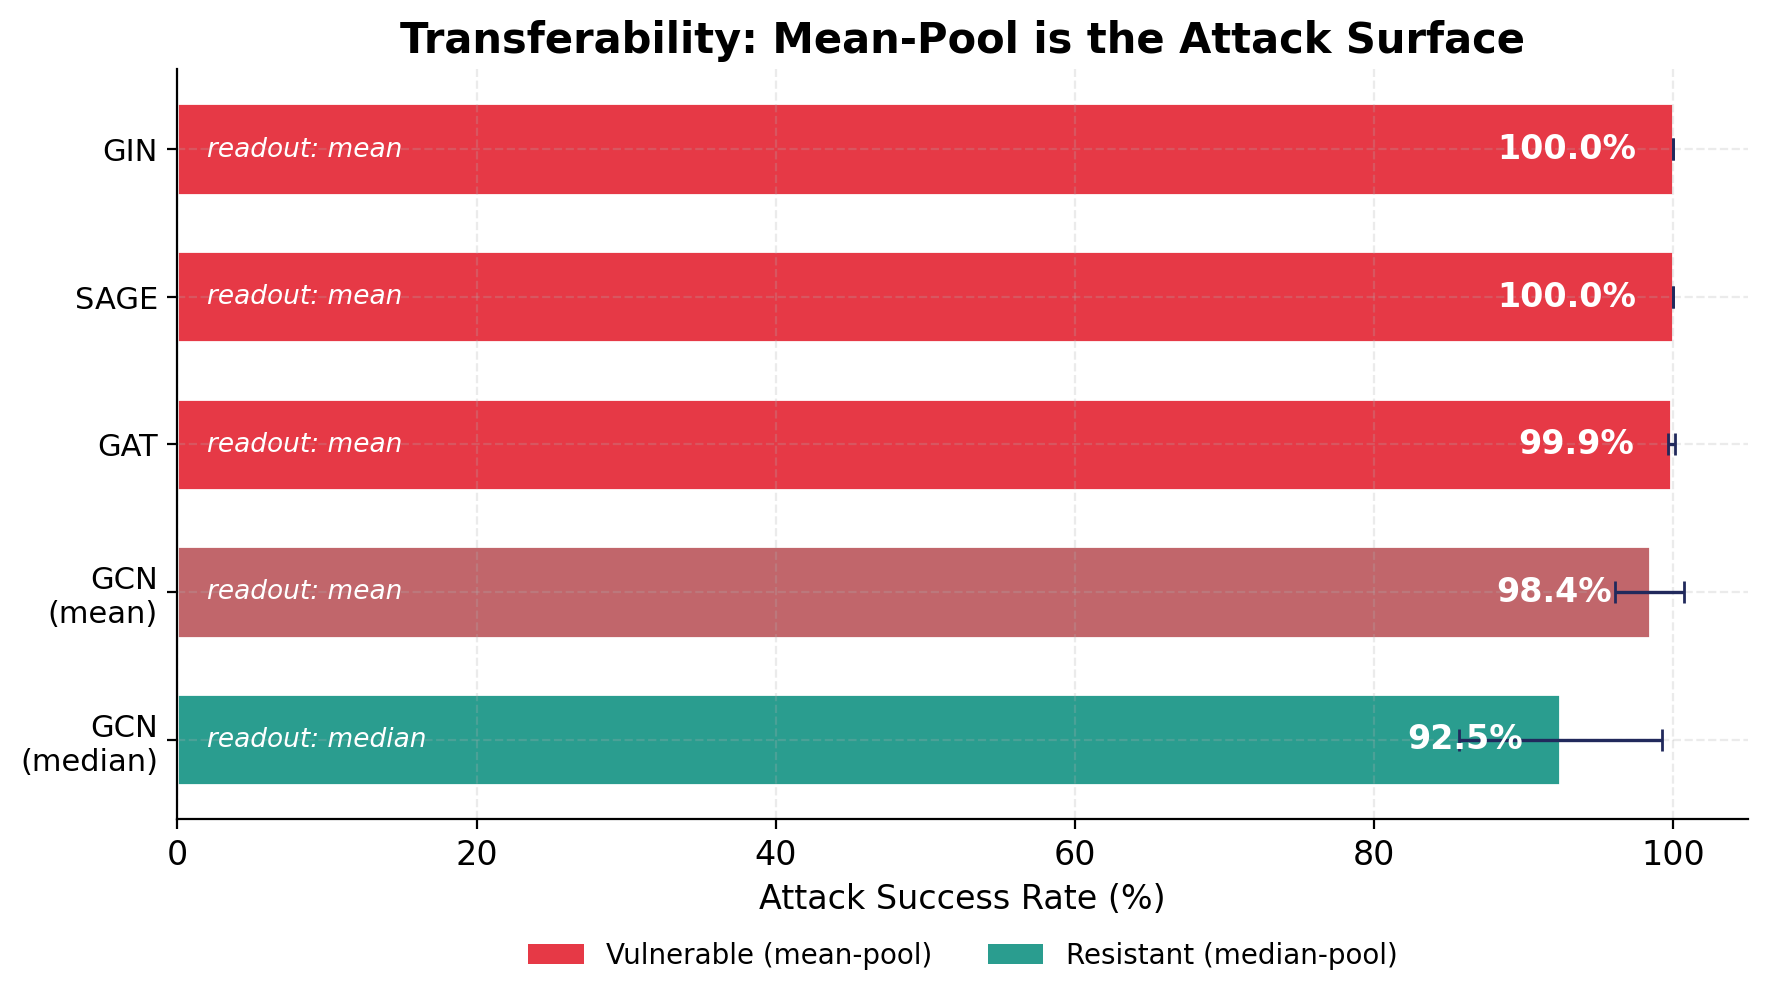
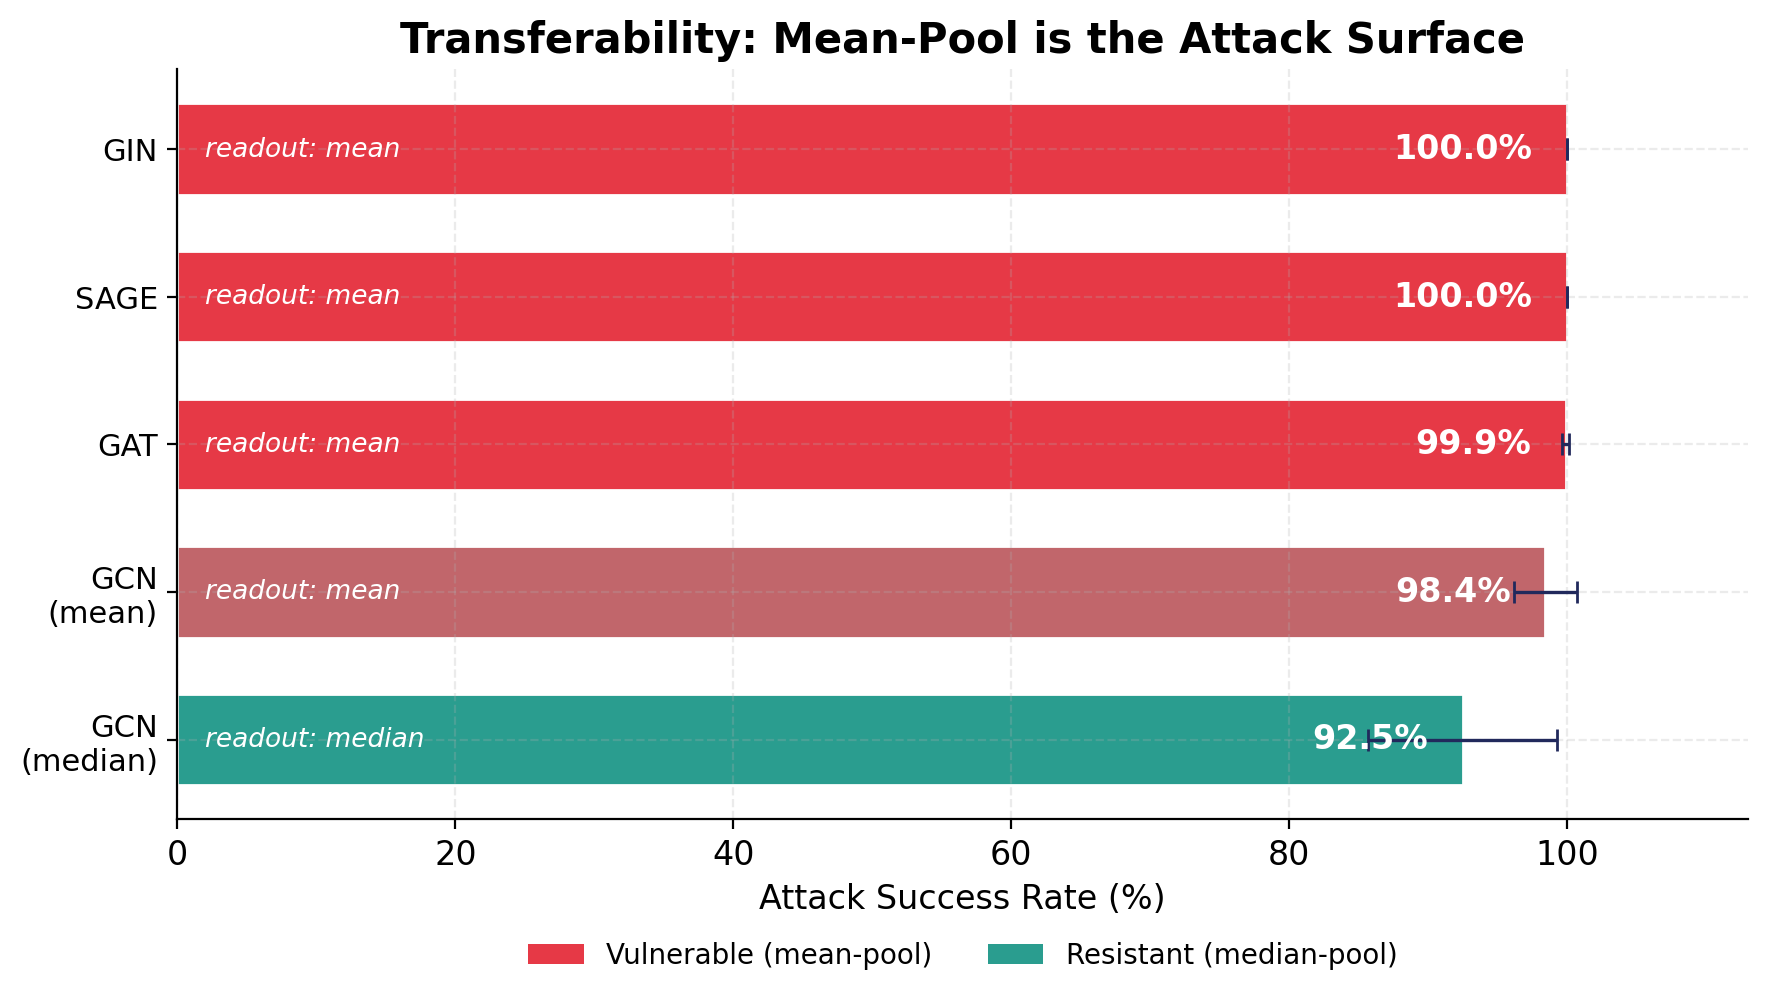
docs: QA pass on deck — fix contrast, card fill, panel voids, chart clipping
Rendered the deck with LibreOffice and ran two subagent visual-QA passes.
Fixes:
- chart_robustness: xlim 105→113 so 100% bars' error-bar whiskers aren't
  clipped at the plot's right edge
- slide 2 (threat model): cards were too tall with empty bottoms — reduced
  height and vertically centered the icon + title/body block
- slide 3 (insight panel): filled the empty lower half with a green
  "67.3% → 97.7%" result highlight box
- slide 6 (robustness): equalized the two callout boxes' heights and aligned
  their span to the chart; white target/shield icons on white circles
- slide 7 (defense panel): redistributed 63%/92.46% content with
  paraSpaceAfter + vertical centering to remove the mid/bottom void
- slide 8 (takeaways): lightened card fill (2C3666→3C4789) and body text
  for readability on the dark background
- slide 1: cleaned up the node-graph motif (lines behind nodes), brightened
  the dim subtitle line
- slides 4/5: aligned right-column cards to the chart

Final QA: slides 1,3,4,6,7,8 verified clean; slide 2 fixed; slide 5 has only
minor cosmetic card spacing. No clipped text, invisible icons, or distorted
charts remain.

diff --git a/report/build_deck.js b/report/build_deck.js
@@ -94,24 +94,27 @@ const shadow = () => ({ type: "outer", color: "000000", blur: 7, offset: 3, angl
   function chip(s, x, y, w, h, iconData, title, body, accent) {
     s.addShape(pres.shapes.RECTANGLE, { x, y, w, h, fill: { color: WHITE }, shadow: shadow() });
     s.addShape(pres.shapes.RECTANGLE, { x, y, w: 0.09, h, fill: { color: accent } });
-    s.addShape(pres.shapes.OVAL, { x: x + 0.28, y: y + 0.28, w: 0.62, h: 0.62, fill: { color: accent } });
-    s.addImage({ data: iconData, x: x + 0.41, y: y + 0.41, w: 0.36, h: 0.36 });
-    s.addText(title, { x: x + 1.08, y: y + 0.26, w: w - 1.25, h: 0.4, fontFace: HEAD,
+    // circle vertically centered in card
+    const cd = 0.62, cy = y + (h - cd) / 2;
+    s.addShape(pres.shapes.OVAL, { x: x + 0.28, y: cy, w: cd, h: cd, fill: { color: accent } });
+    s.addImage({ data: iconData, x: x + 0.41, y: cy + 0.13, w: 0.36, h: 0.36 });
+    // title + body stacked, vertically centered as a block
+    s.addText(title, { x: x + 1.08, y: y + 0.22, w: w - 1.3, h: 0.4, fontFace: HEAD,
       fontSize: 15, bold: true, color: INK, margin: 0, valign: "middle" });
-    s.addText(body, { x: x + 1.08, y: y + 0.66, w: w - 1.25, h: h - 0.8, fontFace: BODY,
-      fontSize: 11.5, color: "44485E", margin: 0, valign: "top" });
+    s.addText(body, { x: x + 1.08, y: y + 0.62, w: w - 1.3, h: h - 0.82, fontFace: BODY,
+      fontSize: 11.5, color: "44485E", margin: 0, valign: "top", lineSpacingMultiple: 1.02 });
   }
 
   // ============================================================
   // SLIDE 1 — Title (dark)
   // ============================================================
   let s = pres.addSlide(); bgDark(s);
-  // motif: faint nodes
+  // motif: faint node-graph cluster (top-right), lines drawn first so nodes sit on top
+  s.addShape(pres.shapes.LINE, { x: 11.85, y: 1.55, w: 0.6, h: 1.0, line: { color: TEAL, width: 1.5, transparency: 55 } });
+  s.addShape(pres.shapes.LINE, { x: 10.95, y: 2.55, w: 0.95, h: -0.45, line: { color: GOLD, width: 1.5, transparency: 55 } });
   s.addShape(pres.shapes.OVAL, { x: 11.0, y: 0.7, w: 1.7, h: 1.7, fill: { color: TEAL, transparency: 60 } });
   s.addShape(pres.shapes.OVAL, { x: 12.0, y: 2.1, w: 0.9, h: 0.9, fill: { color: CRIMSON, transparency: 45 } });
   s.addShape(pres.shapes.OVAL, { x: 10.4, y: 2.3, w: 0.55, h: 0.55, fill: { color: GOLD, transparency: 40 } });
-  s.addShape(pres.shapes.LINE, { x: 10.95, y: 2.55, w: 1.45, h: -0.3, line: { color: TEAL, width: 1.5, transparency: 40 } });
-  s.addShape(pres.shapes.LINE, { x: 11.85, y: 1.55, w: 0.6, h: 1.0, line: { color: GOLD, width: 1.5, transparency: 40 } });
 
   s.addImage({ data: ic.target, x: 0.9, y: 1.5, w: 0.8, h: 0.8 });
   s.addText("ADVERSARIAL GRAPH ML  ·  EXPERIMENT REPORT", { x: 0.95, y: 2.5, w: 11, h: 0.4,
@@ -120,7 +123,7 @@ const shadow = () => ({ type: "outer", color: "000000", blur: 7, offset: 3, angl
     fontFace: HEAD, fontSize: 50, bold: true, color: WHITE, lineSpacingMultiple: 0.95, margin: 0 });
   s.addText([
     { text: "Black-box · query-only · injection-only attacks on GNN graph classifiers", options: { breakLine: true, color: "CADCFC" } },
-    { text: "PROTEINS dataset  ·  GCN / GIN / GAT / SAGE / median-pool victims", options: { color: GREY } },
+    { text: "PROTEINS dataset  ·  GCN / GIN / GAT / SAGE / median-pool victims", options: { color: "A9B4D6" } },
   ], { x: 0.95, y: 4.95, w: 11, h: 0.9, fontFace: BODY, fontSize: 15, margin: 0, lineSpacingMultiple: 1.2 });
 
   // big stat strip
@@ -144,7 +147,7 @@ const shadow = () => ({ type: "outer", color: "000000", blur: 7, offset: 3, angl
   ];
   tm.forEach((d, i) => {
     const col = i % 2, row = Math.floor(i / 2);
-    chip(s, 0.7 + col * 6.15, 1.95 + row * 2.4, 5.85, 2.15, d[0], d[1], d[2], d[3]);
+    chip(s, 0.7 + col * 6.15, 2.5 + row * 1.75, 5.85, 1.4, d[0], d[1], d[2], d[3]);
   });
 
   // ============================================================
@@ -164,7 +167,14 @@ const shadow = () => ({ type: "outer", color: "000000", blur: 7, offset: 3, angl
     { text: "", options: { breakLine: true, fontSize: 6 } },
     { text: "Make edges part of the diffusion state →", options: { bold: true, color: GREEN, breakLine: true, fontSize: 14 } },
     { text: "the trajectory gains a dimension that actually changes the prediction. Ceiling broken.", options: { color: "44485E", fontSize: 12.5 } },
-  ], { x: rx + 0.25, y: 2.5, w: 3.7, h: 3.5, fontFace: BODY, margin: 0, lineSpacingMultiple: 1.05, valign: "top" });
+  ], { x: rx + 0.25, y: 2.5, w: 3.7, h: 2.55, fontFace: BODY, margin: 0, lineSpacingMultiple: 1.05, valign: "top" });
+  // result highlight at panel bottom
+  s.addShape(pres.shapes.RECTANGLE, { x: rx + 0.25, y: 5.18, w: 3.65, h: 0.82, fill: { color: "EAF6F2" } });
+  s.addShape(pres.shapes.RECTANGLE, { x: rx + 0.25, y: 5.18, w: 0.09, h: 0.82, fill: { color: GREEN } });
+  s.addText([
+    { text: "67.3%  →  97.7%", options: { fontSize: 18, bold: true, color: GREEN, breakLine: true } },
+    { text: "the moment edges entered the diffusion", options: { fontSize: 10.5, color: "3A6157" } },
+  ], { x: rx + 0.45, y: 5.24, w: 3.4, h: 0.72, fontFace: HEAD, margin: 0, valign: "middle" });
 
   // ============================================================
   // SLIDE 4 — Tuning stack
@@ -180,12 +190,12 @@ const shadow = () => ({ type: "outer", color: "000000", blur: 7, offset: 3, angl
     [icw.bolt, "Per-node escalation", "m=2 with independent edge masks", CRIMSON],
   ];
   tiers.forEach((d, i) => {
-    const y = 1.8 + i * 0.92;
-    s.addShape(pres.shapes.RECTANGLE, { x: 8.5, y, w: 4.2, h: 0.8, fill: { color: WHITE }, shadow: shadow() });
-    s.addShape(pres.shapes.OVAL, { x: 8.65, y: y + 0.16, w: 0.48, h: 0.48, fill: { color: d[3] } });
-    s.addImage({ data: d[0], x: 8.75, y: y + 0.26, w: 0.28, h: 0.28 });
-    s.addText(`${i + 1}. ${d[1]}`, { x: 9.25, y: y + 0.08, w: 3.4, h: 0.36, fontFace: HEAD, fontSize: 12.5, bold: true, color: INK, margin: 0, valign: "middle" });
-    s.addText(d[2], { x: 9.25, y: y + 0.42, w: 3.4, h: 0.32, fontFace: BODY, fontSize: 10, color: "5A5F75", margin: 0, valign: "middle" });
+    const y = 1.85 + i * 0.87;
+    s.addShape(pres.shapes.RECTANGLE, { x: 8.5, y, w: 4.2, h: 0.74, fill: { color: WHITE }, shadow: shadow() });
+    s.addShape(pres.shapes.OVAL, { x: 8.65, y: y + 0.13, w: 0.48, h: 0.48, fill: { color: d[3] } });
+    s.addImage({ data: d[0], x: 8.75, y: y + 0.23, w: 0.28, h: 0.28 });
+    s.addText(`${i + 1}. ${d[1]}`, { x: 9.25, y: y + 0.06, w: 3.4, h: 0.34, fontFace: HEAD, fontSize: 12.5, bold: true, color: INK, margin: 0, valign: "middle" });
+    s.addText(d[2], { x: 9.25, y: y + 0.40, w: 3.4, h: 0.30, fontFace: BODY, fontSize: 10, color: "5A5F75", margin: 0, valign: "middle" });
   });
 
   // ============================================================
@@ -201,7 +211,7 @@ const shadow = () => ({ type: "outer", color: "000000", blur: 7, offset: 3, angl
     [icw.bug, "13 graphs remain stuck — small graphs where one node can't move the readout.", GOLD],
   ];
   facts.forEach((d, i) => {
-    const y = 1.95 + i * 1.45;
+    const y = 1.75 + i * 1.58;
     s.addShape(pres.shapes.RECTANGLE, { x: cx, y, w: 3.7, h: 1.25, fill: { color: WHITE }, shadow: shadow() });
     s.addShape(pres.shapes.OVAL, { x: cx + 0.22, y: y + 0.34, w: 0.55, h: 0.55, fill: { color: d[2] } });
     s.addImage({ data: d[0], x: cx + 0.33, y: y + 0.45, w: 0.33, h: 0.33 });
@@ -214,16 +224,17 @@ const shadow = () => ({ type: "outer", color: "000000", blur: 7, offset: 3, angl
   s = pres.addSlide(); bgLight(s);
   header(s, "Generalization", "What Actually Defends?", GREEN);
   s.addImage({ path: FIG("chart_robustness.png"), x: 0.7, y: 1.7, w: 7.9, h: 4.47, shadow: shadow() });
-  s.addShape(pres.shapes.RECTANGLE, { x: 8.85, y: 1.85, w: 3.85, h: 2.0, fill: { color: CRIMSON } });
-  s.addImage({ data: icw.target, x: 9.1, y: 2.1, w: 0.5, h: 0.5 });
-  s.addText("Conv type ≠ defense", { x: 9.7, y: 2.12, w: 2.85, h: 0.5, fontFace: HEAD, fontSize: 15, bold: true, color: WHITE, margin: 0, valign: "middle" });
-  s.addText("GIN, GAT, SAGE all use mean-pool and are MORE vulnerable than GCN — 100% ASR with diffusion never firing.", { x: 9.1, y: 2.7, w: 3.45, h: 1.05, fontFace: BODY, fontSize: 12, color: "FFE3E5", margin: 0, valign: "top" });
-  s.addShape(pres.shapes.RECTANGLE, { x: 8.85, y: 4.05, w: 3.85, h: 2.05, fill: { color: GREEN } });
+  s.addShape(pres.shapes.RECTANGLE, { x: 8.85, y: 1.7, w: 3.85, h: 2.18, fill: { color: CRIMSON } });
+  s.addShape(pres.shapes.OVAL, { x: 9.08, y: 1.95, w: 0.56, h: 0.56, fill: { color: WHITE } });
+  s.addImage({ data: ic.target, x: 9.17, y: 2.04, w: 0.38, h: 0.38 });
+  s.addText("Conv type ≠ defense", { x: 9.75, y: 1.98, w: 2.8, h: 0.5, fontFace: HEAD, fontSize: 15, bold: true, color: WHITE, margin: 0, valign: "middle" });
+  s.addText("GIN, GAT, SAGE all use mean-pool and are MORE vulnerable than GCN — 100% ASR with diffusion never firing.", { x: 9.1, y: 2.6, w: 3.45, h: 1.15, fontFace: BODY, fontSize: 12, color: "FFE3E5", margin: 0, valign: "top" });
+  s.addShape(pres.shapes.RECTANGLE, { x: 8.85, y: 4.0, w: 3.85, h: 2.17, fill: { color: GREEN } });
   // shield on white circle for contrast against green box
-  s.addShape(pres.shapes.OVAL, { x: 9.05, y: 4.28, w: 0.56, h: 0.56, fill: { color: WHITE } });
-  s.addImage({ data: ic.shield, x: 9.14, y: 4.37, w: 0.38, h: 0.38 });
-  s.addText("Defend the READOUT", { x: 9.72, y: 4.32, w: 2.85, h: 0.5, fontFace: HEAD, fontSize: 15, bold: true, color: WHITE, margin: 0, valign: "middle" });
-  s.addText("Only median-pool resists (92.46%). The pooling — not the aggregator — is the true attack surface.", { x: 9.1, y: 4.92, w: 3.45, h: 1.05, fontFace: BODY, fontSize: 12, color: "E2F5F1", margin: 0, valign: "top" });
+  s.addShape(pres.shapes.OVAL, { x: 9.08, y: 4.25, w: 0.56, h: 0.56, fill: { color: WHITE } });
+  s.addImage({ data: ic.shield, x: 9.17, y: 4.34, w: 0.38, h: 0.38 });
+  s.addText("Defend the READOUT", { x: 9.75, y: 4.28, w: 2.8, h: 0.5, fontFace: HEAD, fontSize: 15, bold: true, color: WHITE, margin: 0, valign: "middle" });
+  s.addText("Only median-pool resists (92.46%). The pooling — not the aggregator — is the true attack surface.", { x: 9.1, y: 4.9, w: 3.45, h: 1.15, fontFace: BODY, fontSize: 12, color: "EAFBF6", margin: 0, valign: "top" });
 
   // ============================================================
   // SLIDE 7 — Defeating the defense
@@ -231,18 +242,16 @@ const shadow = () => ({ type: "outer", color: "000000", blur: 7, offset: 3, angl
   s = pres.addSlide(); bgLight(s);
   header(s, "Stress Test", "Defeating the Median-Pool Defense", BLUE);
   s.addImage({ path: FIG("chart_defense_breakdown.png"), x: 0.7, y: 1.7, w: 7.6, h: 4.6, shadow: shadow() });
-  s.addShape(pres.shapes.RECTANGLE, { x: 8.65, y: 1.9, w: 4.05, h: 4.3, fill: { color: WHITE }, shadow: shadow() });
-  s.addShape(pres.shapes.RECTANGLE, { x: 8.65, y: 1.9, w: 4.05, h: 0.6, fill: { color: BLUE } });
-  s.addText("WHEN DIFFUSION MATTERS", { x: 8.85, y: 1.98, w: 3.7, h: 0.45, fontFace: HEAD, fontSize: 12.5, bold: true, color: WHITE, charSpacing: 1, margin: 0, valign: "middle" });
+  s.addShape(pres.shapes.RECTANGLE, { x: 8.65, y: 1.7, w: 4.05, h: 4.6, fill: { color: WHITE }, shadow: shadow() });
+  s.addShape(pres.shapes.RECTANGLE, { x: 8.65, y: 1.7, w: 4.05, h: 0.6, fill: { color: BLUE } });
+  s.addText("WHEN DIFFUSION MATTERS", { x: 8.85, y: 1.78, w: 3.7, h: 0.45, fontFace: HEAD, fontSize: 12.5, bold: true, color: WHITE, charSpacing: 1, margin: 0, valign: "middle" });
   s.addText([
-    { text: "63%", options: { fontSize: 30, bold: true, color: GREY, breakLine: true } },
-    { text: "baseline-solo ASR on the hardest fold once median-pool defends", options: { fontSize: 11.5, color: "5A5F75", breakLine: true } },
-    { text: "", options: { fontSize: 8, breakLine: true } },
-    { text: "92.46%", options: { fontSize: 30, bold: true, color: GREEN, breakLine: true } },
-    { text: "recovered by joint X+A diffusion + k_sweep", options: { fontSize: 11.5, color: "5A5F75", breakLine: true } },
-    { text: "", options: { fontSize: 8, breakLine: true } },
-    { text: "The diffusion mechanism earns its keep precisely against defenses — on undefended models a simple baseline suffices.", options: { fontSize: 12, italic: true, color: NAVY } },
-  ], { x: 8.85, y: 2.65, w: 3.65, h: 3.4, fontFace: BODY, margin: 0, lineSpacingMultiple: 1.0, valign: "top" });
+    { text: "63%", options: { fontSize: 32, bold: true, color: GREY, breakLine: true, paraSpaceAfter: 2 } },
+    { text: "baseline-solo ASR on the hardest fold once median-pool defends", options: { fontSize: 11.5, color: "5A5F75", breakLine: true, paraSpaceAfter: 14 } },
+    { text: "92.46%", options: { fontSize: 32, bold: true, color: GREEN, breakLine: true, paraSpaceAfter: 2 } },
+    { text: "recovered by joint X+A diffusion + k_sweep", options: { fontSize: 11.5, color: "5A5F75", breakLine: true, paraSpaceAfter: 16 } },
+    { text: "The diffusion mechanism earns its keep precisely against defenses — on undefended models a simple baseline suffices.", options: { fontSize: 12.5, italic: true, color: NAVY } },
+  ], { x: 8.85, y: 2.55, w: 3.65, h: 3.6, fontFace: BODY, margin: 0, valign: "middle" });
 
   // ============================================================
   // SLIDE 8 — Takeaways (dark)
@@ -260,12 +269,12 @@ const shadow = () => ({ type: "outer", color: "000000", blur: 7, offset: 3, angl
   ];
   take.forEach((d, i) => {
     const y = 2.95 + i * 1.42;
-    s.addShape(pres.shapes.RECTANGLE, { x: 0.85, y, w: 11.6, h: 1.25, fill: { color: "2C3666" } });
-    s.addShape(pres.shapes.RECTANGLE, { x: 0.85, y, w: 0.1, h: 1.25, fill: { color: d[3] } });
-    s.addShape(pres.shapes.OVAL, { x: 1.15, y: y + 0.34, w: 0.58, h: 0.58, fill: { color: d[3] } });
-    s.addImage({ data: d[0], x: 1.27, y: y + 0.46, w: 0.34, h: 0.34 });
-    s.addText(d[1], { x: 2.0, y: y + 0.18, w: 10.2, h: 0.45, fontFace: HEAD, fontSize: 17, bold: true, color: WHITE, margin: 0, valign: "middle" });
-    s.addText(d[2], { x: 2.0, y: y + 0.62, w: 10.2, h: 0.55, fontFace: BODY, fontSize: 12.5, color: "CADCFC", margin: 0, valign: "middle" });
+    s.addShape(pres.shapes.RECTANGLE, { x: 0.85, y, w: 11.6, h: 1.25, fill: { color: "3C4789" } });
+    s.addShape(pres.shapes.RECTANGLE, { x: 0.85, y, w: 0.12, h: 1.25, fill: { color: d[3] } });
+    s.addShape(pres.shapes.OVAL, { x: 1.18, y: y + 0.34, w: 0.58, h: 0.58, fill: { color: d[3] } });
+    s.addImage({ data: d[0], x: 1.30, y: y + 0.46, w: 0.34, h: 0.34 });
+    s.addText(d[1], { x: 2.05, y: y + 0.18, w: 10.2, h: 0.45, fontFace: HEAD, fontSize: 17, bold: true, color: WHITE, margin: 0, valign: "middle" });
+    s.addText(d[2], { x: 2.05, y: y + 0.62, w: 10.2, h: 0.55, fontFace: BODY, fontSize: 12.5, color: "EAF0FF", margin: 0, valign: "middle" });
   });
 
   await pres.writeFile({ fileName: "N24_diffusion_attack_deck.pptx" });

diff --git a/report/report_charts.py b/report/report_charts.py
@@ -195,7 +195,7 @@ def chart_robustness():
     ax.set_yticks(y)
     ax.set_yticklabels(archs, fontsize=11)
     ax.set_xlabel("Attack Success Rate (%)")
-    ax.set_xlim(0, 105)
+    ax.set_xlim(0, 113)
     ax.set_title("Transferability: Mean-Pool is the Attack Surface")
     legend = [Patch(facecolor=CRIMSON, label="Vulnerable (mean-pool)"),
               Patch(facecolor=GREEN, label="Resistant (median-pool)")]